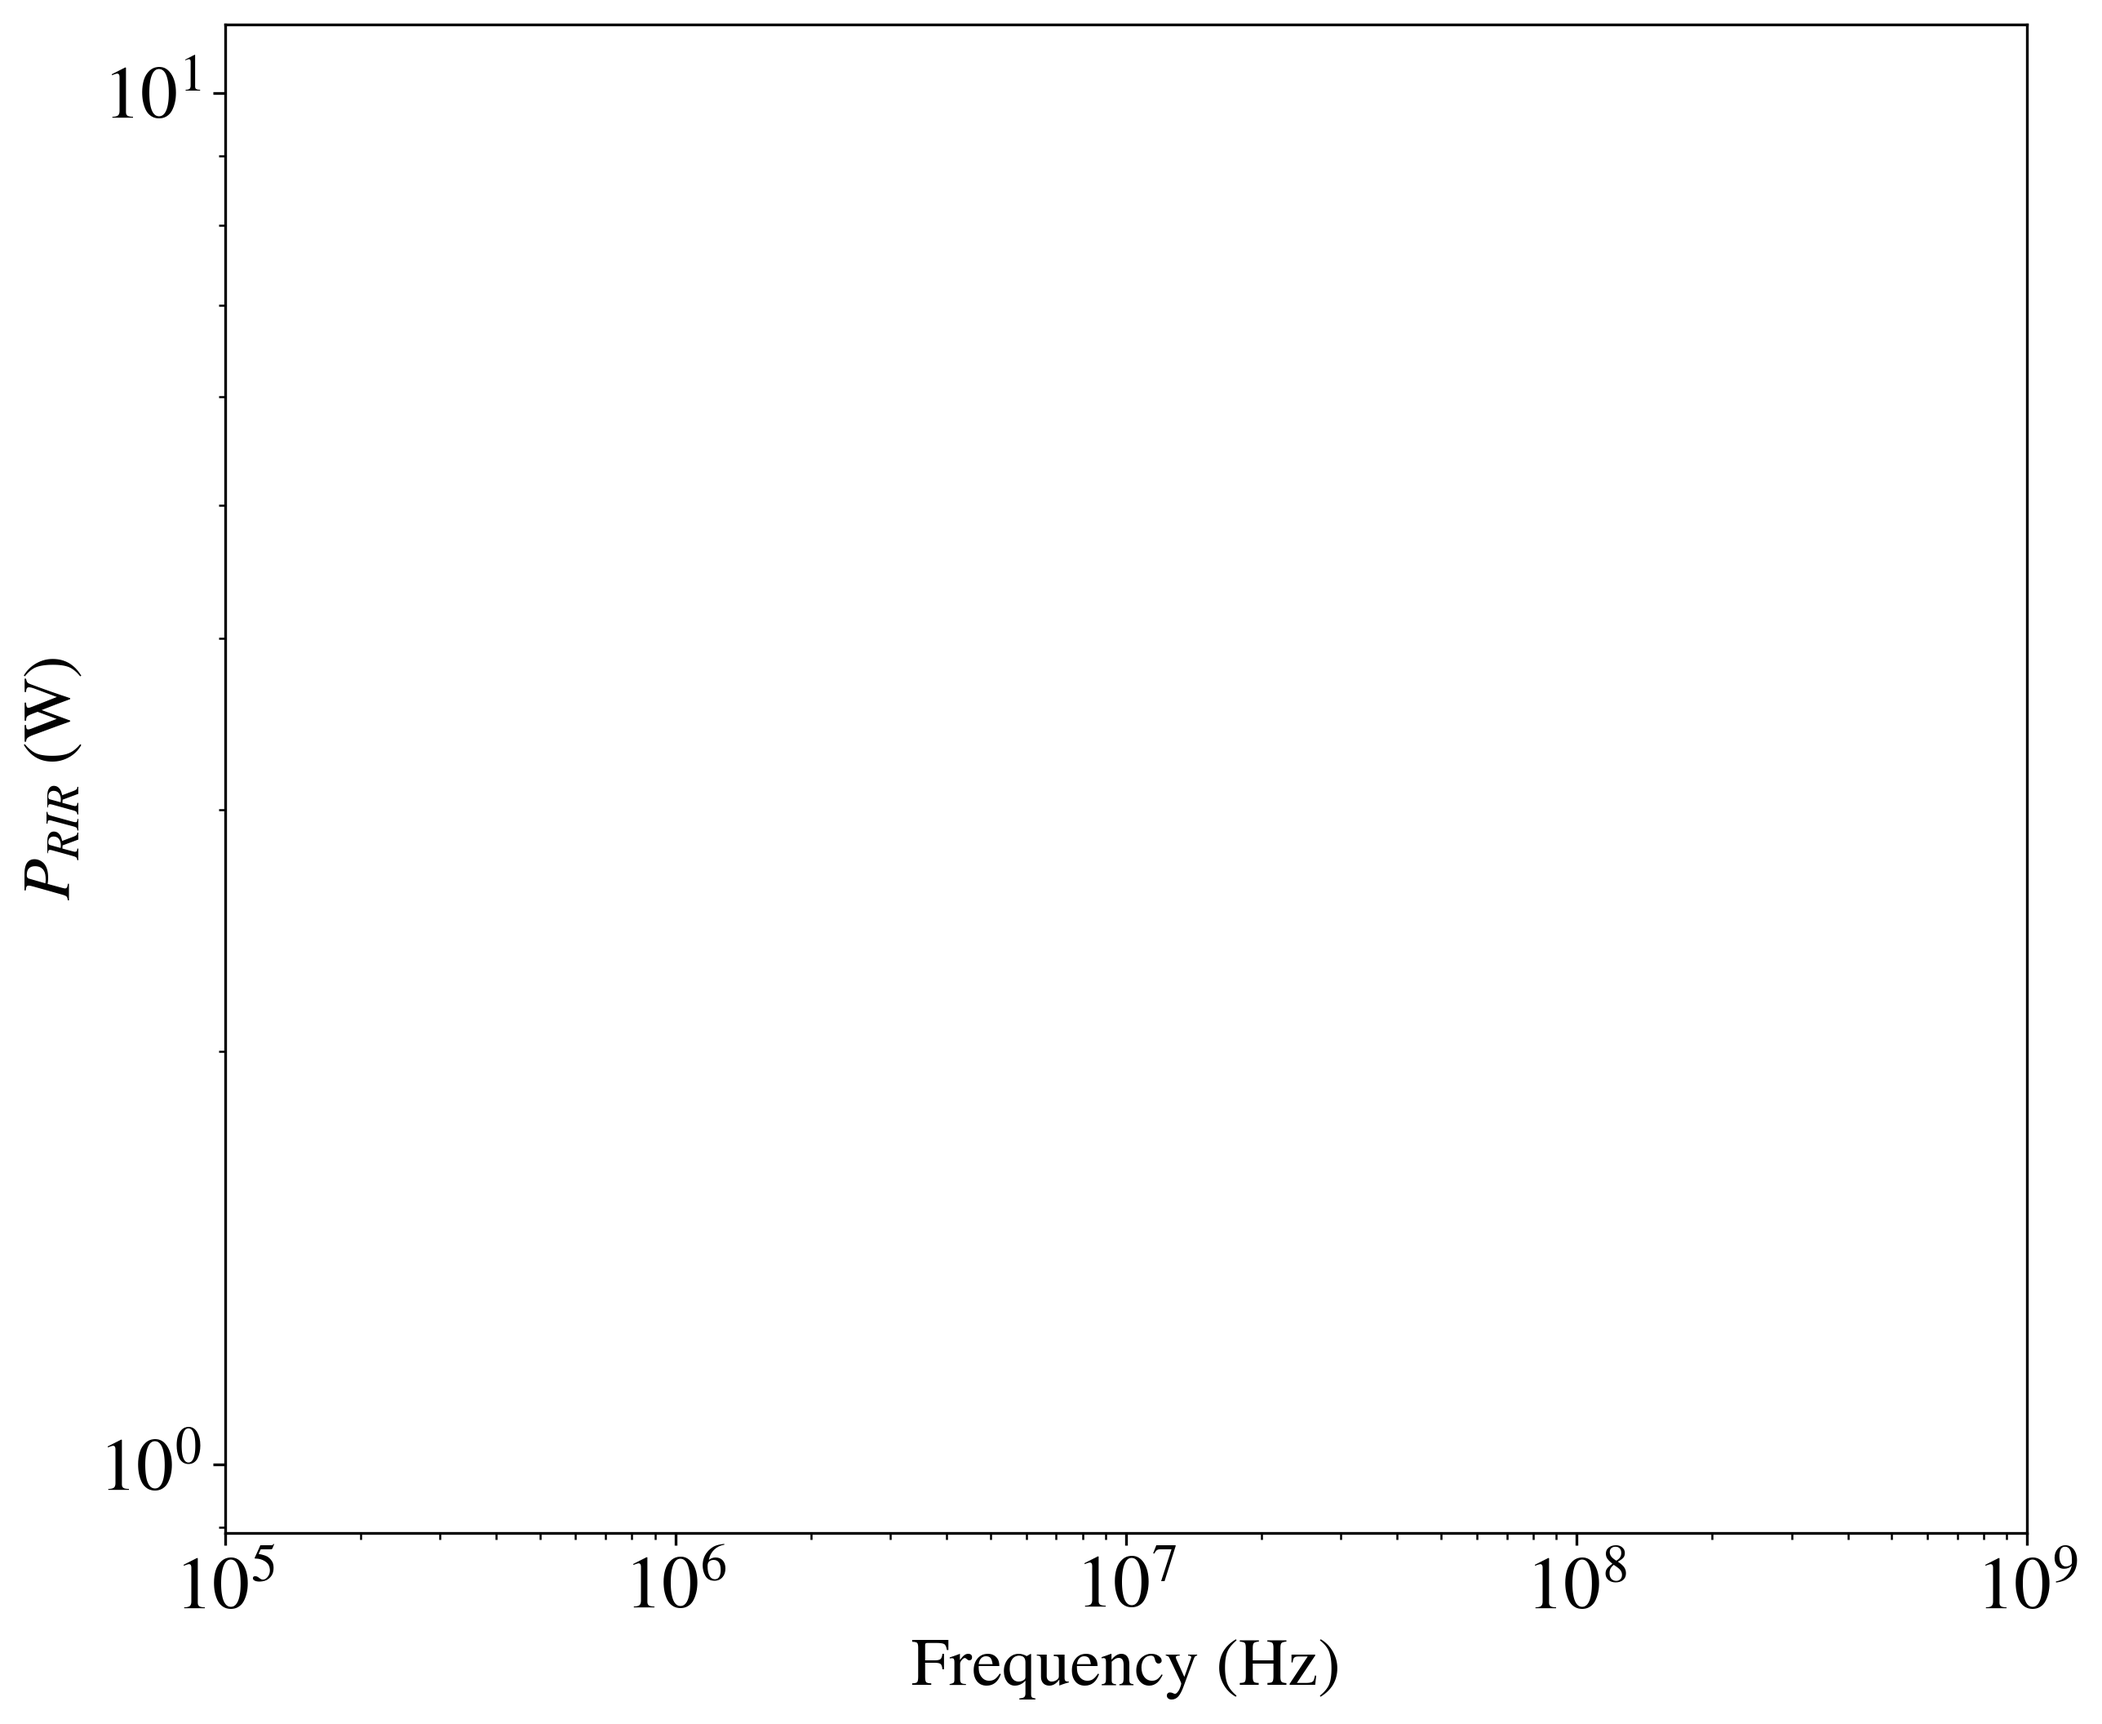
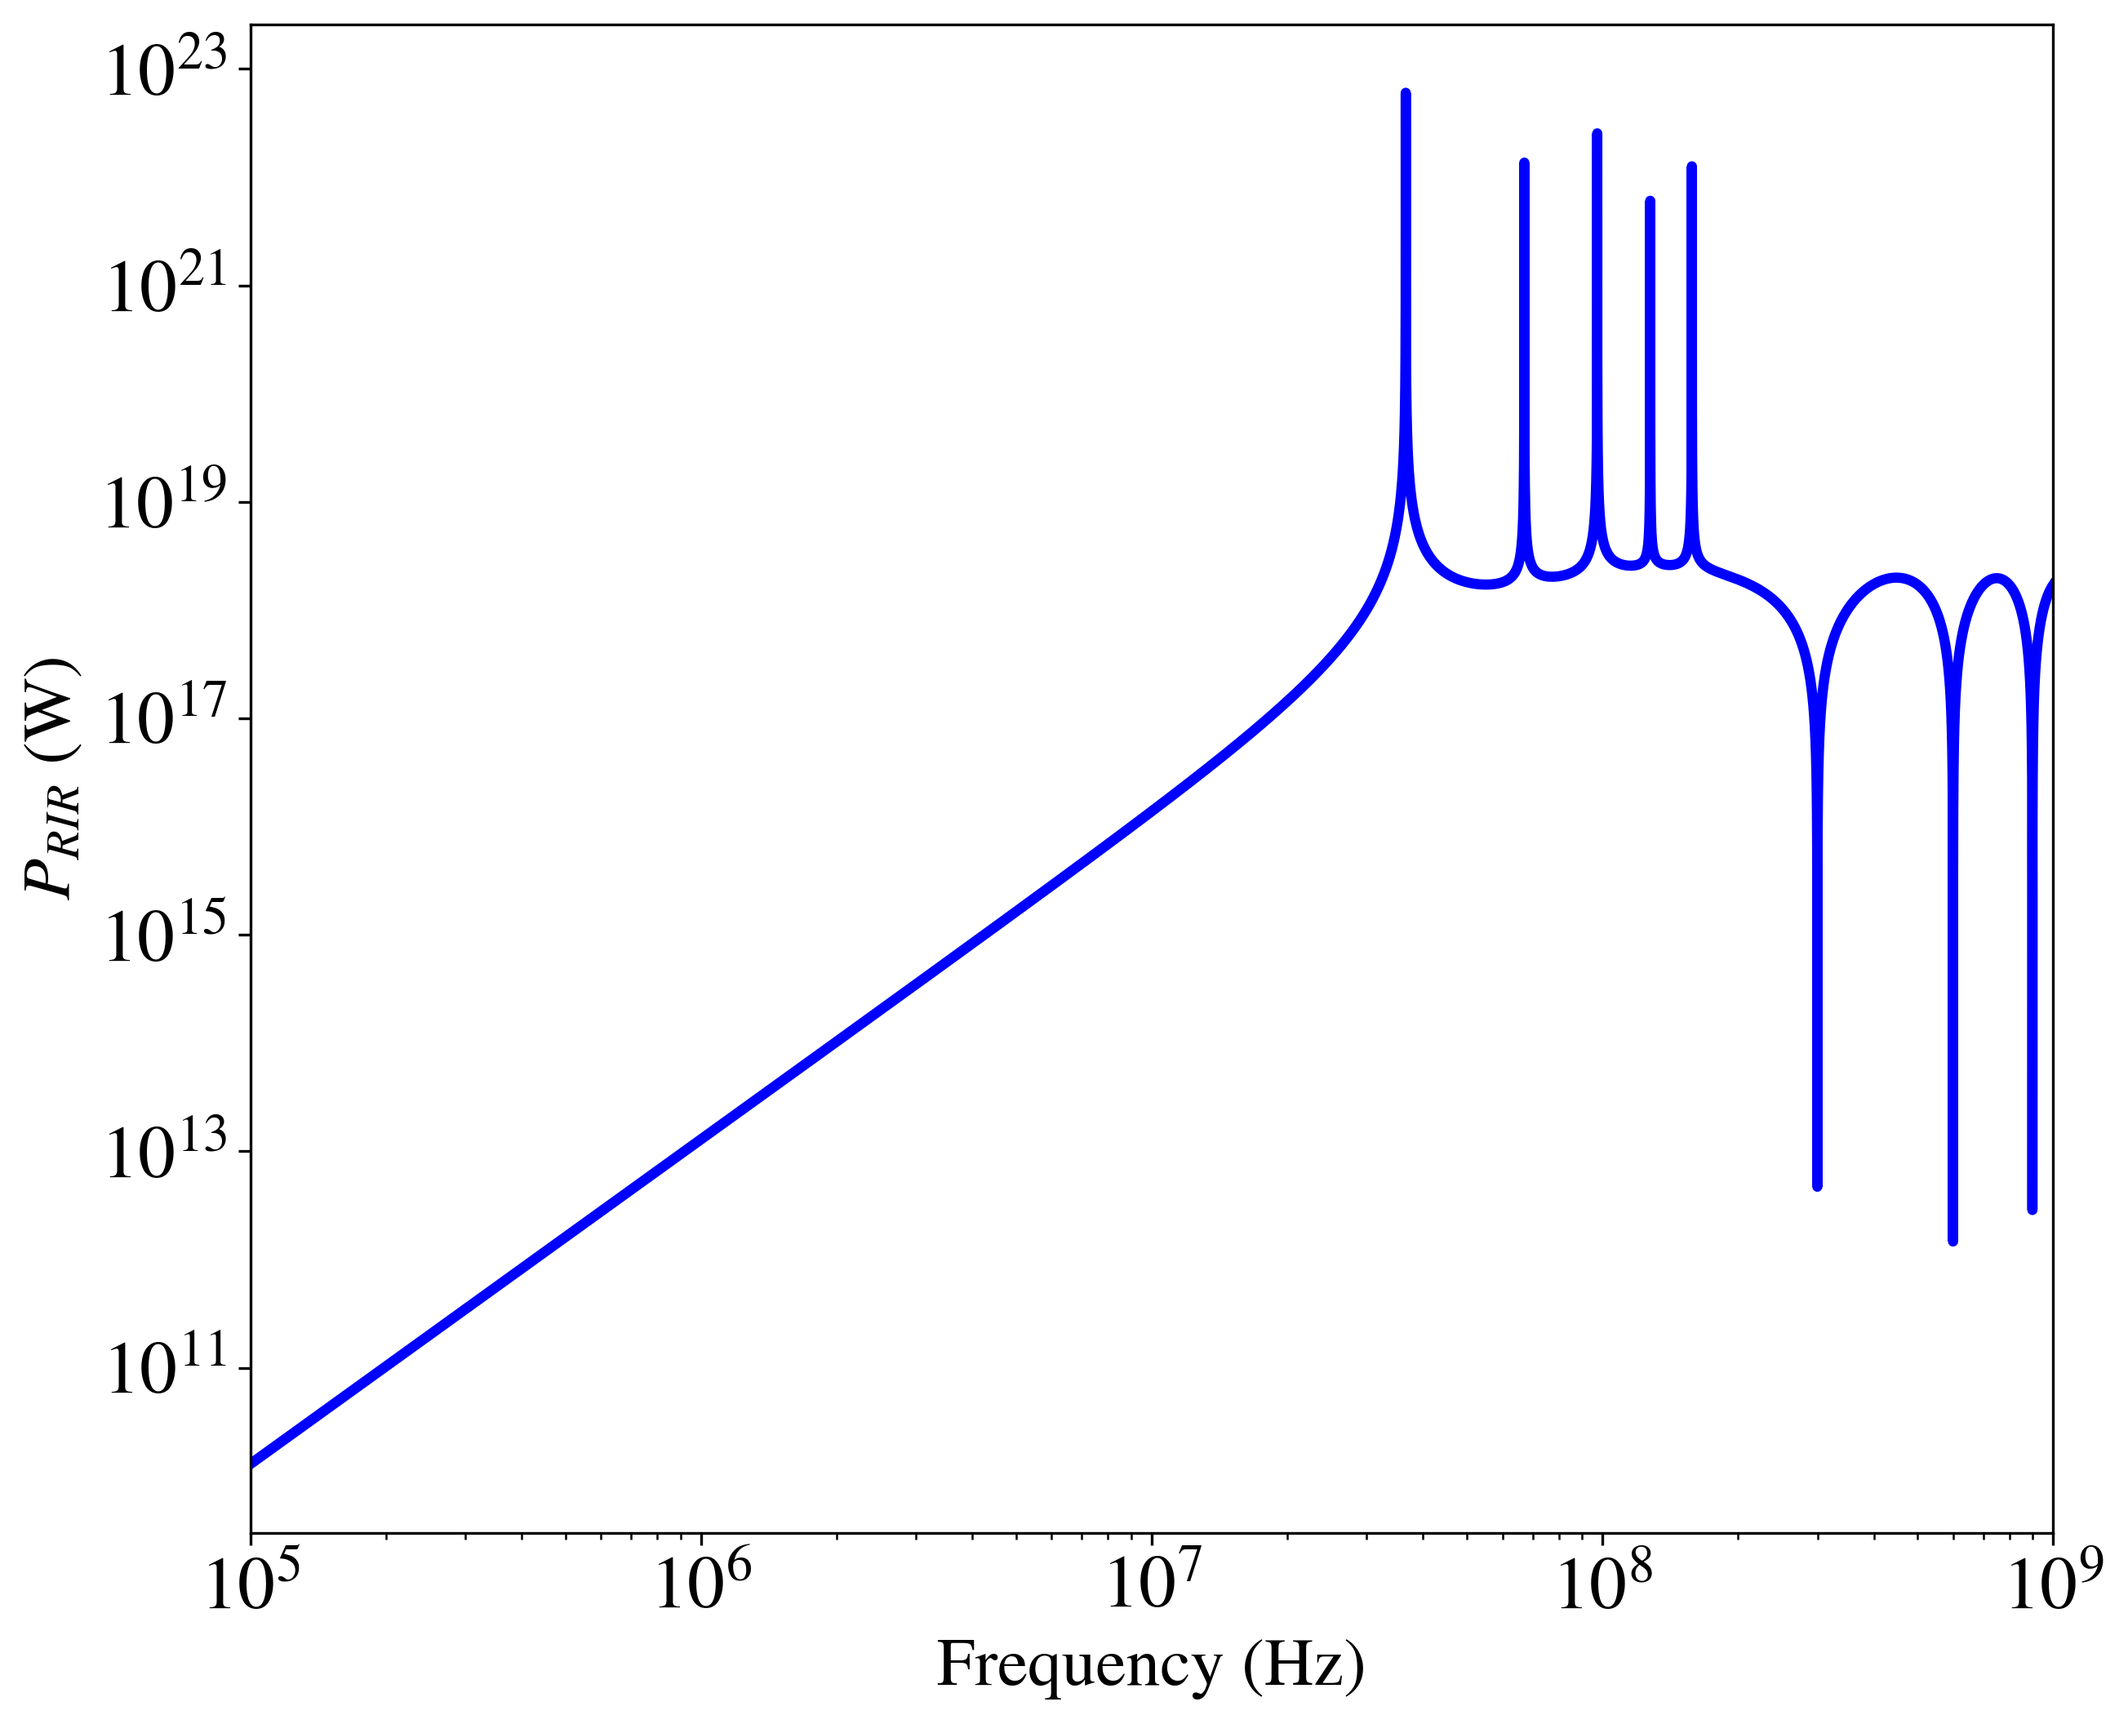
blbl

diff --git a/cavities.py b/cavities.py
@@ -9,7 +9,9 @@ from scipy.interpolate import CubicSpline
 from scipy.integrate import romb
 from time import time
 from scipy.constants import c,G
+from sympy import besselj
 from harmosc import harmosc_solver
+from mpmath import meijerg,mpf,convert,hyp1f2
 
 
 mu0 = 4*pi*10**(-7) #T #Tm/A ou kg m A-2s-2
@@ -63,7 +65,14 @@ def cav_parameters(cavity,K,l,Rmax,Rmin=0.1):
     elif(cavity=='TEM'):
         alist=alphaAk_Rk_EM(K,Rmax,Rmin); alpha_k=array(alist[:,0])/l; Ak=array(alist[:,1])
         Ik=(Ak-Ak*jv(0,alpha_k*Rmax)-yv(0,alpha_k*Rmax))/alpha_k-(Ak-Ak*jv(0,alpha_k*Rmin)-yv(0,alpha_k*Rmin))/alpha_k
-        norm=1/sqrt(2/l/pi/alpha_k**2/(Ak**2*(jv(0,alpha_k*Rmax)**2)+(yv(0,alpha_k*Rmax)**2)))#-(Ak*jv(0,alpha_k*Rmin)+yv(0,alpha_k*Rmin))**2))
+        norm=np.empty(5)
+        for i in range(len(alpha_k)):
+            tmp1=0.5*((-Ak[i]**2+1)*hyp1f2(0.5,1,2,convert(str(-alpha_k[i]**2*Rmin**2)[1:-1]))-2/sqrt(pi)*meijerg([[],[-0.5,0.5]],[[-1,0,0],[-0.5]],convert(str(alpha_k[i]*Rmin)[1:-1]),0.5)-2*Ak[i]*jv(0,alpha_k[i]*Rmin)*yv(0,alpha_k[i]*Rmin)-2*Ak[i]*jv(1,alpha_k[i]*Rmin)*yv(1,alpha_k[i]*Rmin)+Ak[i]**2+1)
+            #tmp1=1/2*Rmin**2*(2*Ak[i]/sqrt(pi)*meijerg([[0,0.5],[-0.5]],[[0,1],[-1,-1,-0.5]],convert(str(alpha_k[i]*Rmin)[1:-1]),0.5)+Ak[i]**2*(jv(1,alpha_k[i]*Rmin)**2-jv(0,alpha_k[i]*Rmin)*jv(2,alpha_k[i]*Rmin))+yv(1,alpha_k[i]*Rmin)**2-yv(0,alpha_k[i]*Rmin)*yv(2,alpha_k[i]*Rmin))
+            #tmp2=1/2*Rmax**2*(2*Ak[i]/sqrt(pi)*meijerg([[0,0.5],[-0.5]],[[0,1],[-1,-1,-0.5]],convert(str(alpha_k[i]*Rmax)[1:-1]),0.5)+Ak[i]**2*(jv(1,alpha_k[i]*Rmax)**2-jv(0,alpha_k[i]*Rmax)*jv(2,alpha_k[i]*Rmax))+yv(1,alpha_k[i]*Rmax)**2-yv(0,alpha_k[i]*Rmax)*yv(2,alpha_k[i]*Rmax))
+            tmp2=0.5*((-Ak[i]**2+1)*hyp1f2(0.5,1,2,convert(str(-alpha_k[i]**2*Rmax**2)[1:-1]))-2/sqrt(pi)*meijerg([[],[-0.5,0.5]],[[-1,0,0],[-0.5]],convert(str(alpha_k[i]*Rmax)[1:-1]),0.5)-2*Ak[i]*jv(0,alpha_k[i]*Rmax)*yv(0,alpha_k[i]*Rmax)-2*Ak[i]*jv(1,alpha_k[i]*Rmax)*yv(1,alpha_k[i]*Rmax)+Ak[i]**2+1)
+            norm[i]=sqrt(tmp2-tmp1*l/2*pi)
+        #norm=1/sqrt(2/l/pi/alpha_k**2/(Ak**2*(jv(0,alpha_k*Rmax)**2)+(yv(0,alpha_k*Rmax)**2)))#-(Ak*jv(0,alpha_k*Rmin)+yv(0,alpha_k*Rmin))**2))
     return alpha_k.flatten(),Ik.flatten(),norm.flatten()
 
 def gw_binary_time_signal(M,dist,f_min,deltaT):

diff --git a/bode.py b/bode.py
@@ -39,6 +39,7 @@ plt.ylabel('$P_{RIR}$ (W)')
 plt.savefig("bodeTM.png")
 cavity='TEM'
 plt.figure()
+print(fct_bode(fplot,cavity,Rmax))
 plt.loglog(fplot,fct_bode(fplot,cavity,Rmax),'b')
 plt.xlim(1e5,1e9)
 plt.xlabel('Frequency (Hz)')
